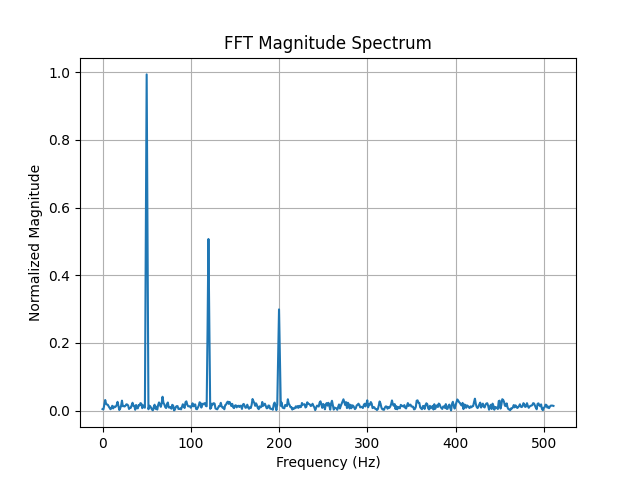
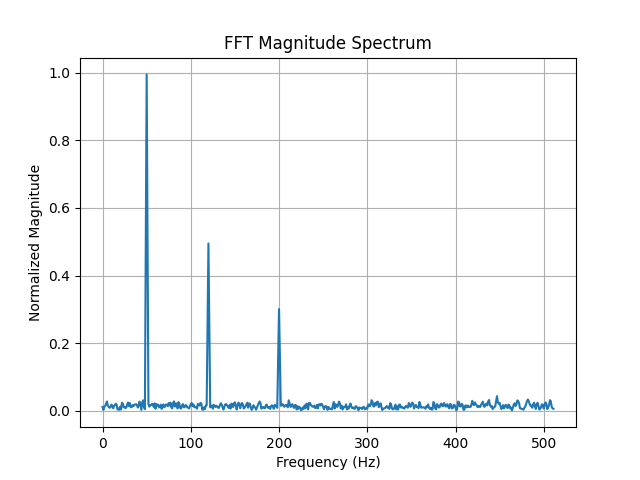
Refactor peak detection into dedicated class

diff --git a/src/PeakDetection.cpp b/src/PeakDetection.cpp
@@ -1,0 +1,29 @@
+#include "PeakDetection.h"
+
+
+
+
+
+std::vector<std::pair<int, double>> PeakDetection::detectPeaks(
+    const std::vector<double>& magnitudes, 
+    double threshold) 
+{
+    std::vector<std::pair<int, double>> peaks;
+
+    if (magnitudes.size() < 3) {
+        return peaks; // Not enough data to detect peaks
+    }
+
+    for (std::size_t i = 1; i < magnitudes.size() -1; i++) {
+
+        double prev = magnitudes[i -1];
+        double curr = magnitudes[i];
+        double next = magnitudes[i + 1];
+
+        // local maximum + above threshold
+        if (curr > prev && curr > next && curr > threshold) {
+            peaks.push_back({static_cast<int>(i), curr});
+        }
+    }
+    return peaks;  
+}

diff --git a/src/FFTProcessor.cpp b/src/FFTProcessor.cpp
@@ -100,30 +100,6 @@ FFTProcessor::FFTProcessor(double sampleRate, size_t fftSize)
         window_ = createHannWindow();
     }
 
-std::vector<std::pair<int, double>> FFTProcessor::detectPeaks(
-    const std::vector<double>& magnitudes, 
-    double threshold) 
-{
-    std::vector<std::pair<int, double>> peaks;
-
-    if (magnitudes.size() < 3) {
-        return peaks; // Not enough data to detect peaks
-    }
-
-    for (size_t i = 1; i < magnitudes.size() -1; i++) {
-
-        double prev = magnitudes[i -1];
-        double curr = magnitudes[i];
-        double next = magnitudes[i + 1];
-
-        // local maximum + above threshold
-        if (curr > prev && curr > next && curr > threshold) {
-            peaks.push_back({static_cast<int>(i), curr});
-        }
-    }
-    return peaks;  
-}
-
 double FFTProcessor::binToFrequency(int bin) const {
     return bin * (sampleRate_ / N_);
 }

diff --git a/include/PeakDetection.h b/include/PeakDetection.h
@@ -1,0 +1,16 @@
+#pragma once
+
+#include <vector>
+#include <utility>
+#include <cstddef>
+
+
+class PeakDetection {
+public:
+
+    // Detects peaks in the magnitude spectrum above a specified threshold
+    std::vector<std::pair<int, double>>detectPeaks(
+        const std::vector<double>& magnitudes, 
+        double threshold);
+
+    };

diff --git a/include/FFTProcessor.h b/include/FFTProcessor.h
@@ -14,17 +14,13 @@ public:
     std::vector<double> computeMagnitudeFFT(const std::vector<double>& signal);
 
 
-    // Detects peaks in the magnitude spectrum above a specified threshold
-    std::vector<std::pair<int, double>> detectPeaks(
-        const std::vector<double>& magnitudes, 
-        double threshold);
     // Converts a bin index to its corresponding frequency
     double binToFrequency(int bin) const;
 
 private:
     // Sample rate of the signal
     double sampleRate_;
-    
+
     // Size of the FFT (number of samples)
     size_t N_;
     

diff --git a/src/main.cpp b/src/main.cpp
@@ -3,6 +3,7 @@
 #include "SignalGenerator.h"
 #include "FFTProcessor.h"
 #include "Plotter.h"
+#include "PeakDetection.h"
 
 int main() {
     double sampleRate = 1024.0; 
@@ -38,7 +39,8 @@ int main() {
     plotter.plotSpectrum(magnitudes, sampleRate, signal.size(), "plots/spectrum.png");
 
 
-    auto peaks = fft.detectPeaks(magnitudes, 0.1); // Threshold for peak detection
+    PeakDetection peakDetector;
+    auto peaks = peakDetector.detectPeaks(magnitudes, 0.1); // Threshold for peak detection
 
     for (auto& p : peaks) {
         int bin = p.first;